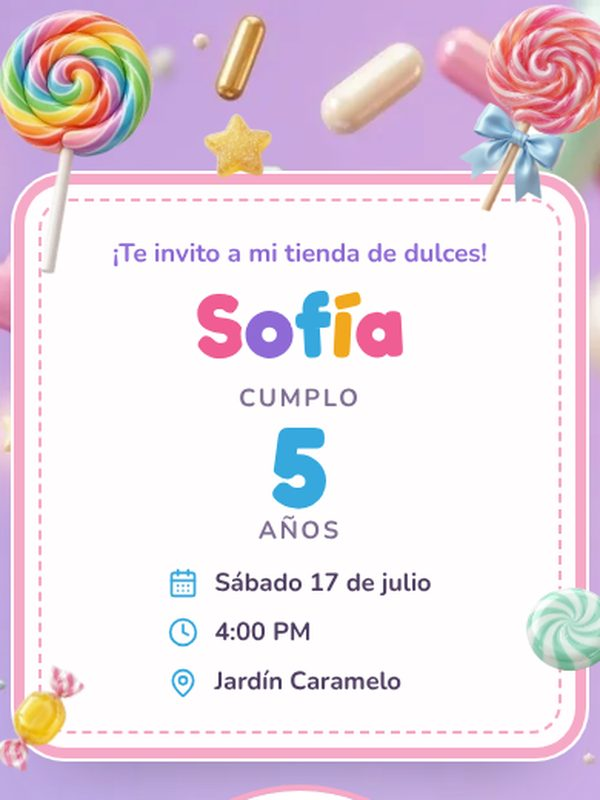
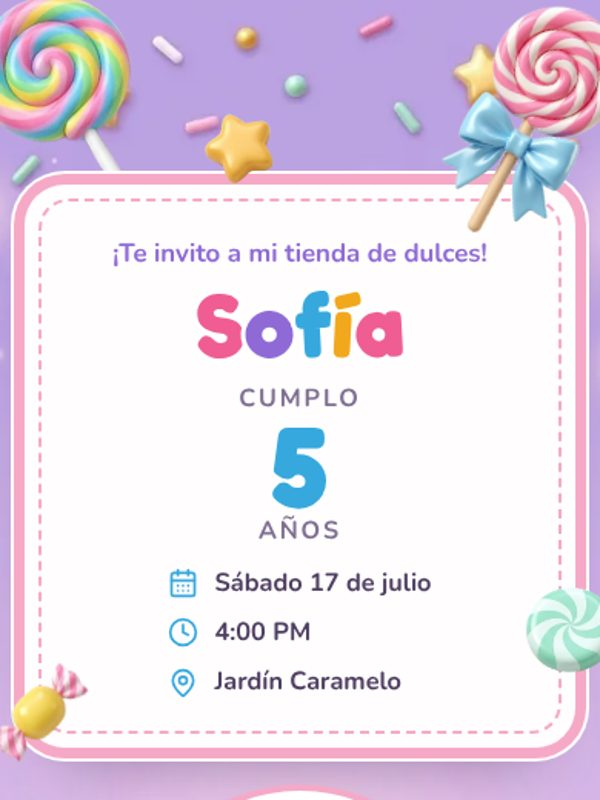
Tienda de Dulces: set 3D propio estilo juguete
Claude-Session: https://claude.ai/code/session_01Jm6MST5BSZzaeuzuGsoN6h

diff --git a/src/components/themes/KidsLayered.css b/src/components/themes/KidsLayered.css
@@ -694,22 +694,22 @@
 
 /* ══════════════════════ 14 · TIENDA DE DULCES (Clásica, sin parallax) ══════════════════════ */
 .theme-tienda-dulces {
-  --kp-bg: #fbf7ff; --kp-alt: #efe6fb url('/images/themes/dulces/fondo-lila.webp') center / cover;
+  --kp-bg: #fbf7ff; --kp-alt: #efe6fb url('/images/themes/dulces-tienda/fondo-lila.webp') center / cover;
   --kp-title-font: 'Fredoka', sans-serif; --kp-title-weight: 600; --kp-text: 'Nunito', sans-serif;
   --kp-title: #8f6ad6; --kp-ink: #4f3f63; --kp-soft: #7f6f93; --kp-accent: #ef5d93;
   --kp-btn: #ef5d93; --kp-btn-ink: #fff; --kp-card-border: #e5d8f7; --kp-icon-bg: #f2eafd; --kp-icon: #8f6ad6;
   --kp-shadow: rgba(143, 106, 214, .35);
-  --kp-title-deco: url('/images/themes/dulces/d-2.webp');
-  --kp-art-message: url('/images/themes/dulces/d-1.webp'); --kp-art-message-w: 120px; --kp-art-message-h: 100px;
-  --kp-art-location: url('/images/themes/dulces/maquina.webp'); --kp-art-location-w: 96px; --kp-art-location-h: 150px;
-  --kp-art-gifts: url('/images/themes/dulces/frasco.webp'); --kp-art-gifts-w: 110px; --kp-art-gifts-h: 148px;
-  --kp-art-rsvp: url('/images/themes/dulces/cupcake.webp'); --kp-art-rsvp-w: 110px; --kp-art-rsvp-h: 156px;
-  --kp-rsvp-bg: #efe6fb url('/images/themes/dulces/fondo-lila.webp') center / cover;
-  --kp-closing-bg: #efe6fb url('/images/themes/dulces/fondo-lila.webp') center / cover;
-  --kp-art-closing: url('/images/themes/dulces/maquina.webp'); --kp-closing-title: #8f6ad6;
+  --kp-title-deco: url('/images/themes/dulces-tienda/d-2.webp');
+  --kp-art-message: url('/images/themes/dulces-tienda/d-1.webp'); --kp-art-message-w: 120px; --kp-art-message-h: 100px;
+  --kp-art-location: url('/images/themes/dulces-tienda/maquina.webp'); --kp-art-location-w: 96px; --kp-art-location-h: 150px;
+  --kp-art-gifts: url('/images/themes/dulces-tienda/frasco.webp'); --kp-art-gifts-w: 110px; --kp-art-gifts-h: 148px;
+  --kp-art-rsvp: url('/images/themes/dulces-tienda/cupcake.webp'); --kp-art-rsvp-w: 110px; --kp-art-rsvp-h: 156px;
+  --kp-rsvp-bg: #efe6fb url('/images/themes/dulces-tienda/fondo-lila.webp') center / cover;
+  --kp-closing-bg: #efe6fb url('/images/themes/dulces-tienda/fondo-lila.webp') center / cover;
+  --kp-art-closing: url('/images/themes/dulces-tienda/maquina.webp'); --kp-closing-title: #8f6ad6;
 }
 .kh--tienda-dulces {
-  --kh-bg-color: #c8b3ea; --kh-bg-img: url('/images/themes/dulces/fondo-lila.webp');
+  --kh-bg-color: #c8b3ea; --kh-bg-img: url('/images/themes/dulces-tienda/fondo-lila.webp');
   --kh-title: 'Fredoka', sans-serif; --kh-text: 'Nunito', sans-serif; --kh-title-weight: 700;
   --kh-ink: #4f3f63; --kh-soft: #7f6f93; --kh-kicker: #8f6ad6; --kh-name: #ef5d93; --kh-accent: #36a8de;
   --kh-card-bg: #fffdfd; --kh-photo-ring: #f6a9c6; --kh-count-bg: #fffdfd; --kh-btn: #ef5d93;
@@ -748,3 +748,4 @@
 }
 @media (min-width: 900px) { .kh--dulcelandia .kh-card { padding-top: 158px; } }
 @media (max-width: 899px) { .kh--dulcelandia .kh-card { padding-top: 142px; padding-bottom: 64px; } }
+.kh-l--td-pop { z-index: 1; top: -4px; left: -8px; }

diff --git a/src/components/themes/KidsLayeredHero.tsx b/src/components/themes/KidsLayeredHero.tsx
@@ -199,15 +199,15 @@ export const KIDS_LAYERED: Record<string, KidsLayeredConfig> = {
     },
     'tienda-dulces': {
         layers: [
-            { k: 'td-pop', src: P('dulces', 'd-2') },
-            { k: 'td-lolly', src: P('dulces', 'paleta') },
-            { k: 'td-cupcake', src: P('dulces', 'cupcake') },
-            { k: 'td-wrap', src: P('dulces', 'd-1') },
-            { k: 'td-mint', src: P('dulces', 'd-7') },
-            { k: 'td-star', src: P('dulces', 'd-5') },
-            { k: 'td-heart', src: P('dulces', 'd-6') },
-            { k: 'td-machine', src: P('dulces', 'maquina') },
-            { k: 'td-jar', src: P('dulces', 'frasco') },
+            { k: 'td-pop', src: P('dulces-tienda', 'd-2') },
+            { k: 'td-lolly', src: P('dulces-tienda', 'paleta') },
+            { k: 'td-cupcake', src: P('dulces-tienda', 'cupcake') },
+            { k: 'td-wrap', src: P('dulces-tienda', 'd-1') },
+            { k: 'td-mint', src: P('dulces-tienda', 'd-8') },
+            { k: 'td-star', src: P('dulces-tienda', 'd-7') },
+            { k: 'td-heart', src: P('dulces-tienda', 'd-4') },
+            { k: 'td-machine', src: P('dulces-tienda', 'maquina') },
+            { k: 'td-jar', src: P('dulces-tienda', 'frasco') },
         ],
         letterColors: ['#ef5d93', '#8f6ad6', '#36a8de', '#f2a81d'],
         kicker: '¡Te invito a mi tienda de dulces!',
